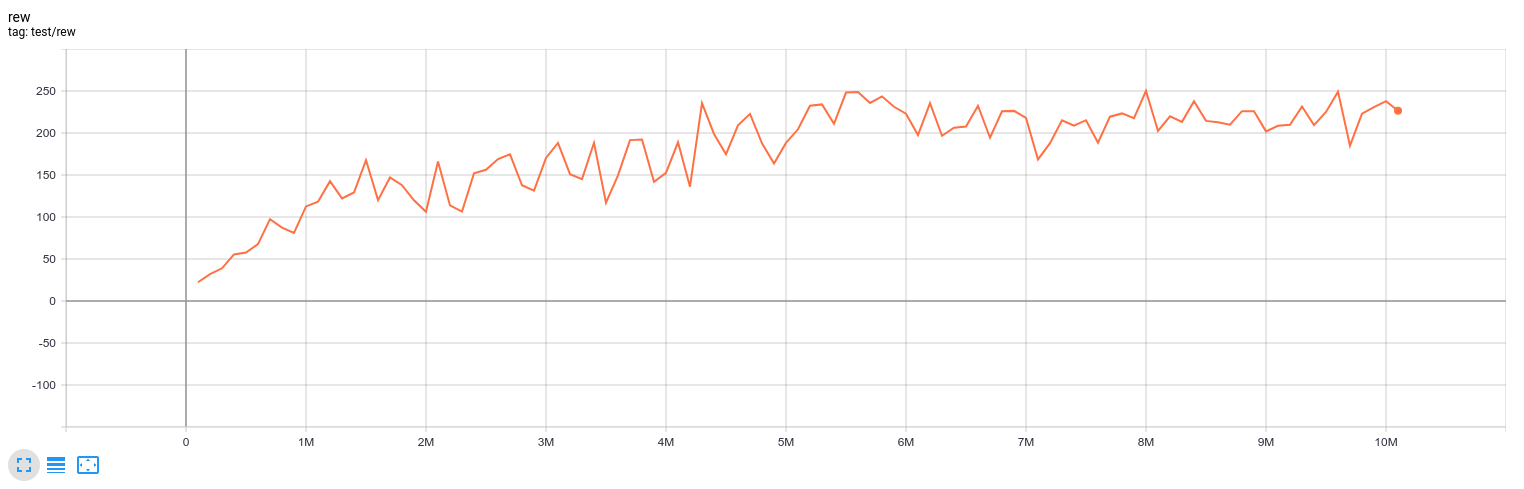
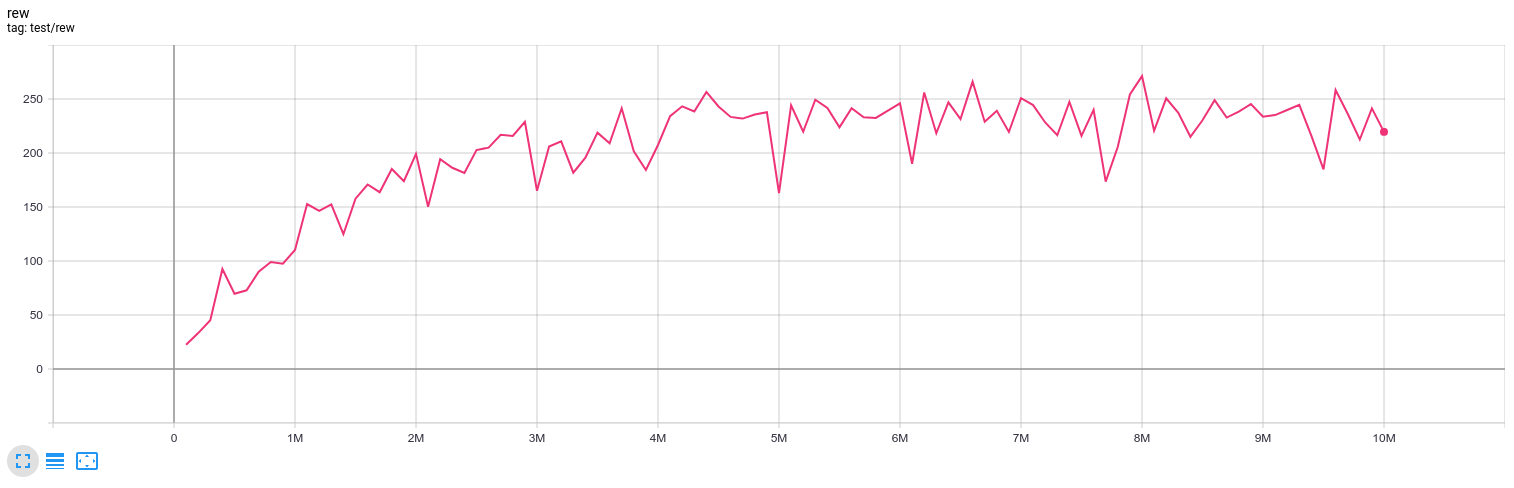
SAC implementation update (#212)
- replace DiagGuassian with Independent(Normal) (pytorch has already supported this)
- detach alpha from autograd
- add value/alpha to result (more informational)
- revert #204 to fix #211

diff --git a/tianshou/policy/modelfree/sac.py b/tianshou/policy/modelfree/sac.py
@@ -2,9 +2,9 @@ import torch
 import numpy as np
 from copy import deepcopy
 from typing import Dict, Tuple, Union, Optional
+from torch.distributions import Normal, Independent
 
 from tianshou.policy import DDPGPolicy
-from tianshou.policy.dist import DiagGaussian
 from tianshou.data import Batch, to_torch_as, ReplayBuffer
 from tianshou.exploration import BaseNoise
 
@@ -47,23 +47,26 @@ class SACPolicy(DDPGPolicy):
         explanation.
     """
 
-    def __init__(self,
-                 actor: torch.nn.Module,
-                 actor_optim: torch.optim.Optimizer,
-                 critic1: torch.nn.Module,
-                 critic1_optim: torch.optim.Optimizer,
-                 critic2: torch.nn.Module,
-                 critic2_optim: torch.optim.Optimizer,
-                 tau: float = 0.005,
-                 gamma: float = 0.99,
-                 alpha: Tuple[float, torch.Tensor, torch.optim.Optimizer]
-                 or float = 0.2,
-                 action_range: Optional[Tuple[float, float]] = None,
-                 reward_normalization: bool = False,
-                 ignore_done: bool = False,
-                 estimation_step: int = 1,
-                 exploration_noise: Optional[BaseNoise] = None,
-                 **kwargs) -> None:
+    def __init__(
+        self,
+        actor: torch.nn.Module,
+        actor_optim: torch.optim.Optimizer,
+        critic1: torch.nn.Module,
+        critic1_optim: torch.optim.Optimizer,
+        critic2: torch.nn.Module,
+        critic2_optim: torch.optim.Optimizer,
+        tau: float = 0.005,
+        gamma: float = 0.99,
+        alpha: Union[
+            float, Tuple[float, torch.Tensor, torch.optim.Optimizer]
+        ] = 0.2,
+        action_range: Optional[Tuple[float, float]] = None,
+        reward_normalization: bool = False,
+        ignore_done: bool = False,
+        estimation_step: int = 1,
+        exploration_noise: Optional[BaseNoise] = None,
+        **kwargs
+    ) -> None:
         super().__init__(None, None, None, None, tau, gamma, exploration_noise,
                          action_range, reward_normalization, ignore_done,
                          estimation_step, **kwargs)
@@ -75,14 +78,12 @@ class SACPolicy(DDPGPolicy):
         self.critic2_old.eval()
         self.critic2_optim = critic2_optim
 
-        self._automatic_alpha_tuning = not isinstance(alpha, float)
-        if self._automatic_alpha_tuning:
-            self._target_entropy = alpha[0]
-            assert(alpha[1].shape == torch.Size([1])
-                   and alpha[1].requires_grad)
-            self._log_alpha = alpha[1]
-            self._alpha_optim = alpha[2]
-            self._alpha = self._log_alpha.exp()
+        self._is_auto_alpha = False
+        if isinstance(alpha, tuple):
+            self._is_auto_alpha = True
+            self._target_entropy, self._log_alpha, self._alpha_optim = alpha
+            assert alpha[1].shape == torch.Size([1]) and alpha[1].requires_grad
+            self._alpha = self._log_alpha.detach().exp()
         else:
             self._alpha = alpha
 
@@ -111,12 +112,13 @@ class SACPolicy(DDPGPolicy):
         obs = getattr(batch, input)
         logits, h = self.actor(obs, state=state, info=batch.info)
         assert isinstance(logits, tuple)
-        dist = DiagGaussian(*logits)
+        dist = Independent(Normal(*logits), 1)
         x = dist.rsample()
         y = torch.tanh(x)
         act = y * self._action_scale + self._action_bias
         y = self._action_scale * (1 - y.pow(2)) + self.__eps
-        log_prob = dist.log_prob(x) - torch.log(y).sum(-1, keepdim=True)
+        log_prob = dist.log_prob(x).unsqueeze(-1)
+        log_prob = log_prob - torch.log(y).sum(-1, keepdim=True)
         if self._noise is not None and self.training and explorating:
             act += to_torch_as(self._noise(act.shape), act)
         act = act.clamp(self._range[0], self._range[1])
@@ -167,13 +169,13 @@ class SACPolicy(DDPGPolicy):
         actor_loss.backward()
         self.actor_optim.step()
 
-        if self._automatic_alpha_tuning:
-            log_prob = (obs_result.log_prob + self._target_entropy).detach()
+        if self._is_auto_alpha:
+            log_prob = obs_result.log_prob.detach() + self._target_entropy
             alpha_loss = -(self._log_alpha * log_prob).mean()
             self._alpha_optim.zero_grad()
             alpha_loss.backward()
             self._alpha_optim.step()
-            self._alpha = self._log_alpha.exp()
+            self._alpha = self._log_alpha.detach().exp()
 
         self.sync_weight()
 
@@ -182,6 +184,7 @@ class SACPolicy(DDPGPolicy):
             'loss/critic1': critic1_loss.item(),
             'loss/critic2': critic2_loss.item(),
         }
-        if self._automatic_alpha_tuning:
+        if self._is_auto_alpha:
             result['loss/alpha'] = alpha_loss.item()
+            result['v/alpha'] = self._alpha.item()
         return result

diff --git a/examples/box2d/bipedal_hardcore_sac.py b/examples/box2d/bipedal_hardcore_sac.py
@@ -24,6 +24,8 @@ def get_args():
     parser.add_argument('--gamma', type=float, default=0.99)
     parser.add_argument('--tau', type=float, default=0.005)
     parser.add_argument('--alpha', type=float, default=0.1)
+    parser.add_argument('--auto_alpha', type=int, default=1)
+    parser.add_argument('--alpha_lr', type=float, default=3e-4)
     parser.add_argument('--epoch', type=int, default=100)
     parser.add_argument('--step-per-epoch', type=int, default=10000)
     parser.add_argument('--collect-per-step', type=int, default=10)
@@ -46,7 +48,7 @@ def get_args():
 class EnvWrapper(object):
     """Env wrapper for reward scale, action repeat and action noise"""
 
-    def __init__(self, task, action_repeat=3, reward_scale=5, act_noise=0.3):
+    def __init__(self, task, action_repeat=3, reward_scale=5, act_noise=0.0):
         self._env = gym.make(task)
         self.action_repeat = action_repeat
         self.reward_scale = reward_scale
@@ -108,6 +110,12 @@ def test_sac_bipedal(args=get_args()):
                  args.action_shape, concat=True, device=args.device)
     critic2 = Critic(net_c2, args.device).to(args.device)
     critic2_optim = torch.optim.Adam(critic2.parameters(), lr=args.critic_lr)
+
+    if args.auto_alpha:
+        target_entropy = -np.prod(env.action_space.shape)
+        log_alpha = torch.zeros(1, requires_grad=True, device=args.device)
+        alpha_optim = torch.optim.Adam([log_alpha], lr=args.alpha_lr)
+        args.alpha = (target_entropy, log_alpha, alpha_optim)
 
     policy = SACPolicy(
         actor, actor_optim, critic1, critic1_optim, critic2, critic2_optim,

diff --git a/tianshou/trainer/offpolicy.py b/tianshou/trainer/offpolicy.py
@@ -77,13 +77,13 @@ def offpolicy_trainer(
     start_time = time.time()
     test_in_train = test_in_train and train_collector.policy == policy
     for epoch in range(1, 1 + max_epoch):
+        # train
+        policy.train()
+        if train_fn:
+            train_fn(epoch)
         with tqdm.tqdm(total=step_per_epoch, desc=f'Epoch #{epoch}',
                        **tqdm_config) as t:
             while t.n < t.total:
-                # collect
-                if train_fn:
-                    train_fn(epoch)
-                policy.eval()
                 result = train_collector.collect(n_step=collect_per_step)
                 data = {}
                 if test_in_train and stop_fn and stop_fn(result['rew']):
@@ -100,10 +100,9 @@ def offpolicy_trainer(
                             start_time, train_collector, test_collector,
                             test_result['rew'])
                     else:
+                        policy.train()
                         if train_fn:
                             train_fn(epoch)
-                # train
-                policy.train()
                 for i in range(update_per_step * min(
                         result['n/st'] // collect_per_step, t.total - t.n)):
                     global_step += collect_per_step

diff --git a/tianshou/trainer/onpolicy.py b/tianshou/trainer/onpolicy.py
@@ -77,13 +77,13 @@ def onpolicy_trainer(
     start_time = time.time()
     test_in_train = test_in_train and train_collector.policy == policy
     for epoch in range(1, 1 + max_epoch):
+        # train
+        policy.train()
+        if train_fn:
+            train_fn(epoch)
         with tqdm.tqdm(total=step_per_epoch, desc=f'Epoch #{epoch}',
                        **tqdm_config) as t:
             while t.n < t.total:
-                # collect
-                if train_fn:
-                    train_fn(epoch)
-                policy.eval()
                 result = train_collector.collect(n_episode=collect_per_step)
                 data = {}
                 if test_in_train and stop_fn and stop_fn(result['rew']):
@@ -100,10 +100,9 @@ def onpolicy_trainer(
                             start_time, train_collector, test_collector,
                             test_result['rew'])
                     else:
+                        policy.train()
                         if train_fn:
                             train_fn(epoch)
-                # train
-                policy.train()
                 losses = policy.update(
                     0, train_collector.buffer, batch_size, repeat_per_collect)
                 train_collector.reset_buffer()

diff --git a/test/continuous/test_ppo.py b/test/continuous/test_ppo.py
@@ -5,11 +5,11 @@ import pprint
 import argparse
 import numpy as np
 from torch.utils.tensorboard import SummaryWriter
+from torch.distributions import Independent, Normal
 
 from tianshou.policy import PPOPolicy
 from tianshou.env import DummyVectorEnv
 from tianshou.utils.net.common import Net
-from tianshou.policy.dist import DiagGaussian
 from tianshou.trainer import onpolicy_trainer
 from tianshou.data import Collector, ReplayBuffer
 from tianshou.utils.net.continuous import ActorProb, Critic
@@ -84,7 +84,11 @@ def test_ppo(args=get_args()):
             torch.nn.init.zeros_(m.bias)
     optim = torch.optim.Adam(list(
         actor.parameters()) + list(critic.parameters()), lr=args.lr)
-    dist = DiagGaussian
+
+    # replace DiagGuassian with Independent(Normal) which is equivalent
+    # pass *logits to be consistent with policy.forward
+    def dist(*logits):
+        return Independent(Normal(*logits), 1)
     policy = PPOPolicy(
         actor, critic, optim, dist, args.gamma,
         max_grad_norm=args.max_grad_norm,

diff --git a/examples/box2d/README.md b/examples/box2d/README.md
@@ -1,7 +1,6 @@
 # Bipedal-Hardcore-SAC
 
-- Our default choice: remove the done flag penalty, will soon converge to \~250 reward within 100 epochs (10M env steps, 3~4 hours, see the image below)
+- Our default choice: remove the done flag penalty, will soon converge to \~270 reward within 100 epochs (10M env steps, 3~4 hours, see the image below)
 - If the done penalty is not removed, it converges much slower than before, about 200 epochs (20M env steps) to reach the same performance (\~200 reward)
-- Action noise is only necessary in the beginning. It is a negative impact at the end of the training. Removing it can reach \~255 (our best result under the original env, no done penalty removed).
 
 ![](results/sac/BipedalHardcore.png)
